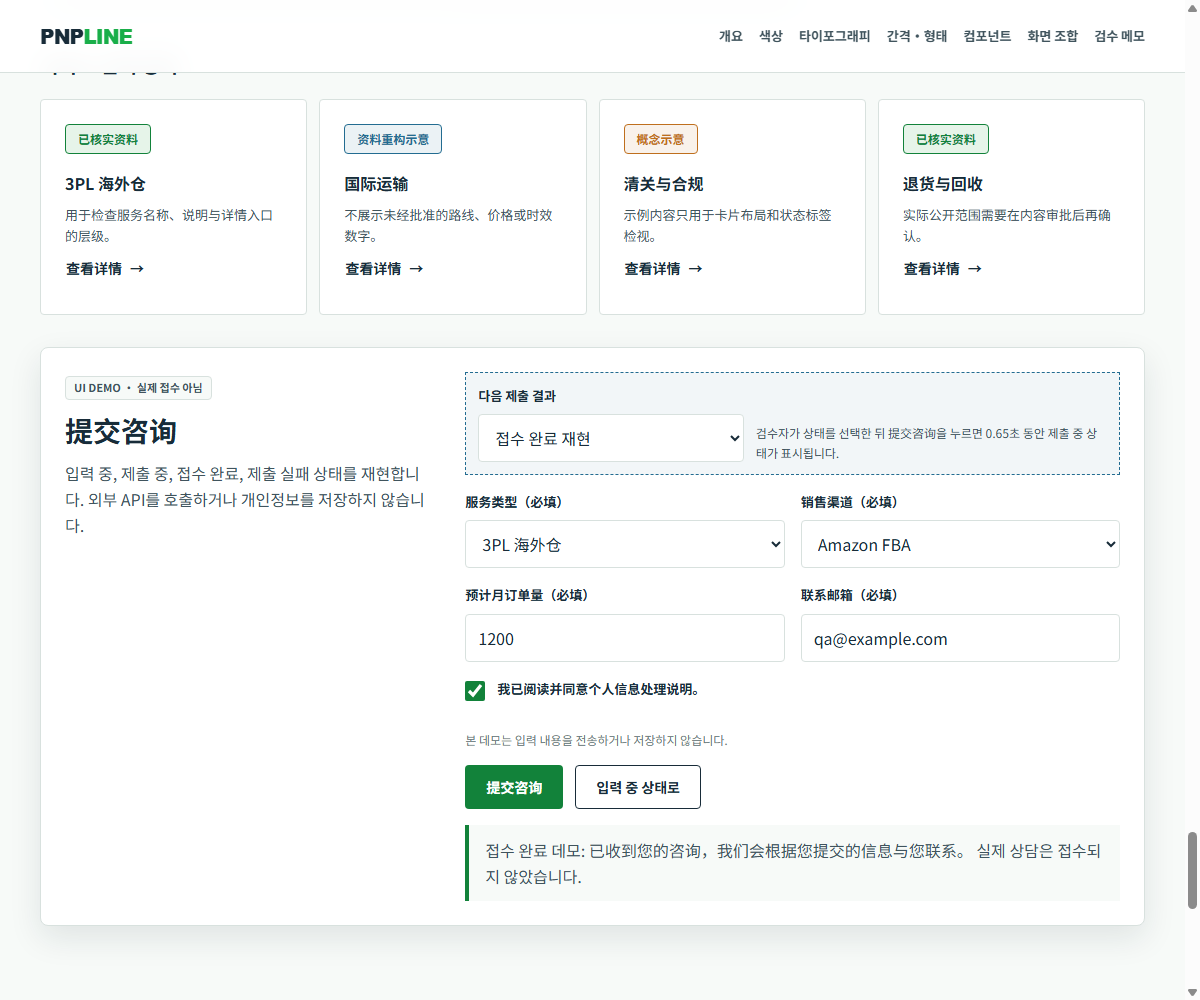
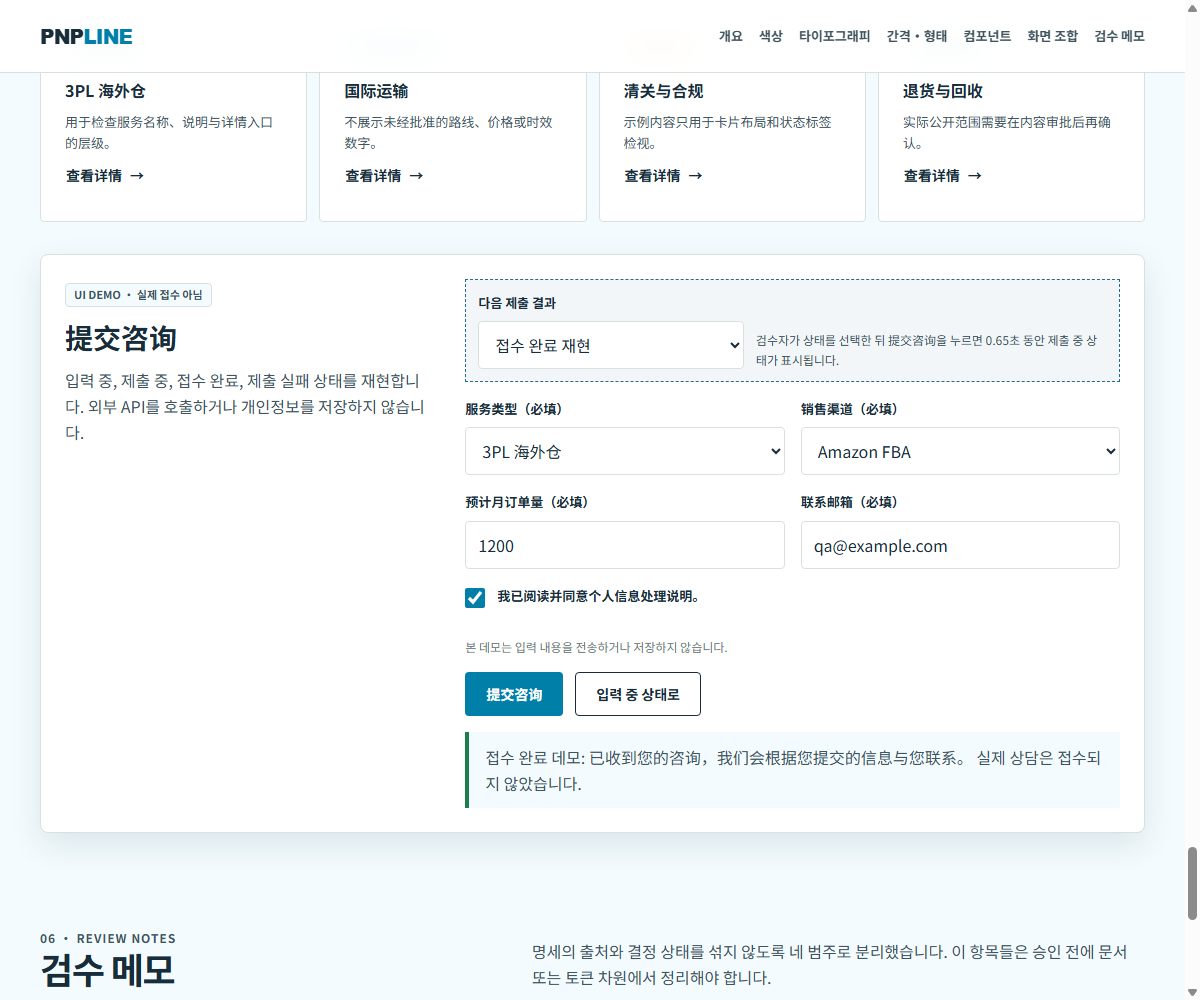
feat: align design system with PNPLINE brand blue

diff --git a/output/design-concept-v1/design-system-preview.css b/output/design-concept-v1/design-system-preview.css
@@ -1,22 +1,22 @@
 :root{color-scheme:light}*{box-sizing:border-box}html{scroll-behavior:smooth;scroll-padding-top:calc(var(--header-height) + var(--space-4))}body{margin:0;background:var(--surface-subtle);color:var(--text-primary);font:16px/1.625 var(--font-sans-sc)}button,input,select{font:inherit}button,summary,input,select,a{-webkit-tap-highlight-color:transparent}a{color:var(--action-primary);text-underline-offset:.2em}a:focus-visible,summary:focus-visible,input:focus-visible,select:focus-visible,button:focus-visible{outline:0;box-shadow:var(--shadow-focus)}
 .skip-link{position:fixed;z-index:100;top:var(--space-2);left:var(--space-2);padding:var(--space-2) var(--space-4);background:var(--surface-inverse);color:var(--text-inverse);transform:translateY(-160%)}.skip-link:focus{transform:none}
-.preview-header{position:sticky;z-index:20;top:0;min-height:var(--header-height);border-bottom:1px solid var(--border-subtle);background:color-mix(in srgb,var(--surface-page) 94%,transparent);backdrop-filter:blur(12px)}.preview-header__inner{display:flex;max-width:var(--content-max-width);min-height:var(--header-height);align-items:center;gap:var(--space-5);margin:auto;padding:var(--space-2) var(--space-10)}.wordmark{color:var(--text-primary);font:800 20px/1 var(--font-sans-latin);letter-spacing:-.04em;text-decoration:none;white-space:nowrap}.wordmark span{color:var(--color-brand-green-600)}.preview-nav{display:flex;flex-wrap:wrap;gap:var(--space-2) var(--space-4);margin-left:auto}.preview-nav a{color:var(--text-secondary);font-size:13px;font-weight:700;text-decoration:none}.preview-nav a:hover{color:var(--action-primary)}
+.preview-header{position:sticky;z-index:20;top:0;min-height:var(--header-height);border-bottom:1px solid var(--border-subtle);background:color-mix(in srgb,var(--surface-page) 94%,transparent);backdrop-filter:blur(12px)}.preview-header__inner{display:flex;max-width:var(--content-max-width);min-height:var(--header-height);align-items:center;gap:var(--space-5);margin:auto;padding:var(--space-2) var(--space-10)}.wordmark{color:var(--text-primary);font:800 20px/1 var(--font-sans-latin);letter-spacing:-.04em;text-decoration:none;white-space:nowrap}.wordmark span{color:var(--action-primary)}.preview-nav{display:flex;flex-wrap:wrap;gap:var(--space-2) var(--space-4);margin-left:auto}.preview-nav a{color:var(--text-secondary);font-size:13px;font-weight:700;text-decoration:none}.preview-nav a:hover{color:var(--action-primary)}
 main{max-width:var(--content-max-width);margin:auto;padding:var(--space-16) var(--space-10) var(--space-24)}.intro{display:grid;grid-template-columns:minmax(0,1.45fr) minmax(280px,.7fr);gap:var(--space-10);align-items:end}.eyebrow,.kicker,.sample-label{margin:0 0 var(--space-2);color:var(--action-primary);font-size:12px;font-weight:700;letter-spacing:.08em;line-height:1.5;text-transform:uppercase}h1,h2,h3,p{overflow-wrap:anywhere}.intro h1{max-width:800px;margin:0;font-size:clamp(36px,6vw,64px);line-height:1.08;letter-spacing:-.045em}.intro__lead{max-width:720px;margin:var(--space-6) 0 0;color:var(--text-secondary);font-size:18px}
 .status-card,.panel,.device,.note-card,.metric-card{border:1px solid var(--border-subtle);background:var(--surface-page);box-shadow:var(--shadow-panel)}.status-card{padding:var(--panel-padding);border-radius:var(--radius-md)}.status-card strong{display:block;margin-bottom:var(--space-2);font-size:18px}.status-card p{margin:0;color:var(--text-secondary);font-size:14px}.source-list,.plain-list{margin:var(--space-4) 0 0;padding-left:1.25em}.source-list code,code{font-family:var(--font-sans-latin);font-size:.88em}.toc{margin-top:var(--space-10);padding:var(--space-5) var(--panel-padding);border:1px solid var(--border-subtle);border-radius:var(--radius-sm);background:var(--surface-tinted)}.toc-list{display:flex;flex-wrap:wrap;gap:var(--space-2) var(--space-5);margin:var(--space-4) 0 0;padding:0;list-style:none}.toc-list a{font-size:14px;font-weight:700}
 .section{padding-top:var(--space-24)}.section-heading{display:grid;grid-template-columns:minmax(0,.75fr) minmax(280px,1fr);gap:var(--space-8);align-items:end;margin-bottom:var(--space-8)}.section-heading h2{margin:0;font-size:36px;line-height:1.2;letter-spacing:-.035em}.section-heading p{margin:0;color:var(--text-secondary)}.subsection,.component-block{margin-top:var(--space-12)}.subsection h3,.component-block>h3{margin:0 0 var(--space-4);font-size:20px;line-height:1.4}.subsection-intro{margin:calc(var(--space-4) * -1) 0 var(--space-5);color:var(--text-secondary);font-size:14px}
 .origin-tag,.demo-tag,.status-pill{display:inline-flex;min-height:24px;align-items:center;padding:2px var(--space-2);border:1px solid var(--border-subtle);border-radius:var(--radius-sm);background:var(--surface-subtle);color:var(--text-secondary);font-size:11px;font-weight:700;line-height:1.4}.origin-tag--doc{border-color:var(--color-signal-amber);color:var(--color-signal-amber)}.origin-tag--temp{border-color:var(--color-signal-blue);color:var(--color-signal-blue)}.origin-tag--source{border-color:var(--action-primary);color:var(--action-primary)}
 .token-grid{display:grid;grid-template-columns:repeat(3,minmax(0,1fr));gap:var(--space-4)}.color-card{min-width:0;overflow:hidden;border:1px solid var(--border-subtle);border-radius:var(--radius-sm);background:var(--surface-page)}.color-card__swatch{display:grid;min-height:104px;place-items:end start;padding:var(--space-3);border-bottom:1px solid var(--border-subtle);background:var(--swatch-color)}.color-card__swatch span{padding:2px var(--space-2);border-radius:var(--radius-sm);background:var(--surface-page);color:var(--text-primary);font:11px var(--font-sans-latin)}.color-card__body{padding:var(--space-4)}.color-card h4{margin:0 0 var(--space-2);font-size:14px}.token-data{display:grid;gap:var(--space-2);margin:0}.token-data div{display:grid;grid-template-columns:64px minmax(0,1fr);gap:var(--space-2)}.token-data dt,.token-data dd{margin:0;font-size:12px}.token-data dt{color:var(--text-muted)}.token-data dd{overflow-wrap:anywhere}
-.context-grid,.green-comparison,.shape-grid,.metric-grid,.note-grid{display:grid;grid-template-columns:repeat(3,minmax(0,1fr));gap:var(--space-4)}.color-context{min-height:180px;padding:var(--panel-padding);border:1px solid var(--border-subtle);border-radius:var(--radius-sm)}.color-context h4,.color-context p,.green-role h4,.green-role p{margin:0}.color-context p,.green-role p{margin-top:var(--space-2)}.color-context--page{background:var(--surface-page);color:var(--text-primary)}.color-context--tinted{background:var(--surface-tinted);color:var(--text-primary)}.color-context--inverse{border-color:var(--surface-inverse);background:var(--surface-inverse);color:var(--text-inverse)}.color-context .secondary{color:var(--text-secondary)}.color-context--inverse .secondary{color:var(--color-ink-200)}.green-comparison{grid-template-columns:repeat(2,minmax(0,1fr))}.green-role{padding:var(--panel-padding);border-radius:var(--radius-sm);color:var(--text-inverse)}.green-role p{font-size:14px}.green-role--action{background:var(--action-primary)}.green-role--brand{background:var(--color-brand-green-600)}
+.context-grid,.brand-comparison,.shape-grid,.metric-grid,.note-grid{display:grid;grid-template-columns:repeat(3,minmax(0,1fr));gap:var(--space-4)}.color-context{min-height:180px;padding:var(--panel-padding);border:1px solid var(--border-subtle);border-radius:var(--radius-sm)}.color-context h4,.color-context p,.brand-role h4,.brand-role p{margin:0}.color-context p,.brand-role p{margin-top:var(--space-2)}.color-context--page{background:var(--surface-page);color:var(--text-primary)}.color-context--tinted{background:var(--surface-tinted);color:var(--text-primary)}.color-context--inverse{border-color:var(--surface-inverse);background:var(--surface-inverse);color:var(--text-inverse)}.color-context .secondary{color:var(--text-secondary)}.color-context--inverse .secondary{color:var(--color-ink-200)}.brand-comparison{grid-template-columns:repeat(2,minmax(0,1fr))}.brand-role{padding:var(--panel-padding);border-radius:var(--radius-sm)}.brand-role p{font-size:14px}.brand-role--action{background:var(--action-primary);color:var(--text-inverse)}.brand-role--primary{background:var(--brand-primary);color:var(--text-primary)}
 .table-wrap{overflow-x:auto;border:1px solid var(--border-subtle);border-radius:var(--radius-sm);background:var(--surface-page)}.data-table{width:100%;min-width:660px;border-collapse:collapse;font-size:13px}.data-table th,.data-table td{padding:var(--space-3) var(--space-4);border-bottom:1px solid var(--border-subtle);text-align:left;vertical-align:top}.data-table tr:last-child td{border:0}.data-table th{background:var(--surface-tinted);color:var(--text-secondary);font-size:12px}
 .type-stack{display:grid;gap:var(--space-4)}.type-specimen{display:grid;grid-template-columns:180px minmax(0,1fr);gap:var(--space-6);padding:var(--panel-padding);border:1px solid var(--border-subtle);border-radius:var(--radius-sm);background:var(--surface-page)}.type-meta strong{display:block;margin-bottom:var(--space-2)}.type-sample{margin:0;font-family:var(--font-sans-sc)}.type-display{font-size:48px;line-height:56px;font-weight:700;letter-spacing:-.04em}.type-h1{font-size:36px;line-height:44px;font-weight:700;letter-spacing:-.03em}.type-h2{font-size:28px;line-height:36px;font-weight:700;letter-spacing:-.025em}.type-h3{font-size:20px;line-height:28px;font-weight:700}.type-body{font-size:16px;line-height:26px}.type-small{font-size:14px;line-height:22px}.type-label{font-size:12px;line-height:18px;font-weight:700;letter-spacing:.04em}.font-notice{margin-top:var(--space-5);padding:var(--space-4);border-left:4px solid var(--color-signal-amber);background:var(--surface-page)}.font-notice p{margin:0;color:var(--text-secondary);font-size:14px}.narrow-copy-test{max-width:360px;margin-top:var(--space-6);padding:var(--panel-padding);border:1px solid var(--border-subtle);border-radius:var(--radius-sm);background:var(--surface-page)}.narrow-copy-test h4{margin:0 0 var(--space-2);font-size:20px;line-height:28px}.narrow-copy-test p{margin:0 0 var(--space-4)}
 .button-row,.badge-list,.form-actions{display:flex;flex-wrap:wrap;gap:var(--space-3)}.space-list{display:grid;gap:var(--space-3)}.space-row{display:grid;grid-template-columns:100px minmax(120px,1fr) 180px;gap:var(--space-4);align-items:center;padding:var(--space-3) var(--space-4);border:1px solid var(--border-subtle);background:var(--surface-page)}.space-row__track{min-width:0;height:20px;background:var(--surface-tinted)}.space-row__bar{width:var(--space-value);max-width:100%;height:100%;background:var(--action-primary)}.shape-sample,.shadow-sample{min-height:132px;padding:var(--panel-padding);border:1px solid var(--border-subtle);background:var(--surface-page)}.shape-sample p,.shadow-sample p{margin:var(--space-2) 0 0;color:var(--text-secondary);font-size:13px}.radius-none{border-radius:var(--radius-none)}.radius-sm{border-radius:var(--radius-sm)}.radius-md{border-radius:var(--radius-md)}.shadow-panel{box-shadow:var(--shadow-panel)}.shadow-focus{box-shadow:var(--shadow-focus)}
 .metric-grid{grid-template-columns:repeat(5,minmax(0,1fr))}.metric-card{min-width:0;padding:var(--space-4);border-radius:var(--radius-sm);box-shadow:none}.metric-card strong,.metric-card output{display:block}.metric-card strong{margin-bottom:var(--space-2);font-size:13px}.metric-card output{color:var(--action-primary);font:700 20px var(--font-sans-latin)}.metric-card small{display:block;margin-top:var(--space-2);color:var(--text-muted);overflow-wrap:anywhere}.viewport-readout{display:flex;flex-wrap:wrap;gap:var(--space-3);align-items:center;margin-bottom:var(--space-4);padding:var(--space-3) var(--space-4);border:1px solid var(--border-subtle);background:var(--surface-tinted)}.viewport-readout output{font-family:var(--font-sans-latin);font-weight:700}
 .state-table{display:grid;grid-template-columns:repeat(4,minmax(0,1fr));gap:var(--space-4)}.state-cell{min-width:0;padding:var(--space-4);border:1px solid var(--border-subtle);background:var(--surface-page)}.state-cell__label{display:block;margin-bottom:var(--space-3);color:var(--text-muted);font-size:12px;font-weight:700}.button{display:inline-flex;min-width:0;min-height:var(--button-height-md);align-items:center;justify-content:center;gap:var(--space-2);padding:0 var(--button-padding-inline);border:1px solid transparent;border-radius:var(--radius-sm);cursor:pointer;font-size:14px;font-weight:700;line-height:1.2;text-decoration:none;transition:background-color 160ms ease,color 160ms ease,border-color 160ms ease,box-shadow 160ms ease}.button--primary{background:var(--action-primary);color:var(--text-inverse)}.button--primary:is(:hover,[data-state=hover],:focus-visible,[data-state=focus]){background:var(--action-primary-hover);color:var(--text-inverse)}.button--secondary{border-color:var(--action-secondary);background:transparent;color:var(--action-secondary)}.button--secondary:is(:hover,[data-state=hover],:focus-visible,[data-state=focus]){background:var(--surface-tinted)}.button--text{min-height:var(--button-height-md);padding-inline:0;background:transparent;color:var(--text-primary)}.button--text:after{content:"→"}.button--text:is(:hover,[data-state=hover],:focus-visible,[data-state=focus]){color:var(--action-primary)}.button:is(:focus-visible,[data-state=focus]){box-shadow:var(--shadow-focus)}.button:is(:disabled,[aria-disabled=true],[data-state=disabled]){border-color:var(--border-subtle);background:var(--color-ink-100);color:var(--text-muted);cursor:not-allowed}
 .form-specimens{display:grid;grid-template-columns:repeat(2,minmax(0,1fr));gap:var(--space-4)}.field{min-width:0}.field label{display:block;margin-bottom:var(--space-2);color:var(--text-primary);font-size:13px;font-weight:700}.field input:not([type=checkbox]),.field select{width:100%;min-height:var(--input-height);padding:0 var(--space-3);border:1px solid var(--border-subtle);border-radius:var(--radius-sm);background:var(--surface-page);color:var(--text-primary)}.field input:not([type=checkbox]):is(:focus,[data-state=focus]),.field select:is(:focus,[data-state=focus]){border-color:var(--focus-ring);outline:0;box-shadow:var(--shadow-focus)}.field input[aria-invalid=true],.field select[aria-invalid=true]{border-color:var(--color-signal-red)}.field input:disabled,.field select:disabled{background:var(--color-ink-100);color:var(--text-muted);cursor:not-allowed}.field-help,.field-error{margin:var(--space-2) 0 0;font-size:12px}.field-help{color:var(--text-muted)}.field-error{color:var(--color-signal-red);font-weight:700}.checkbox-row{display:flex!important;min-height:var(--button-height-md);align-items:flex-start;gap:var(--space-3)}.checkbox-row input{width:20px;height:20px;flex:none;margin:3px 0 0;accent-color:var(--action-primary)}
-.evidence-badge{display:inline-flex;min-height:30px;align-items:center;padding:var(--space-1) var(--space-3);border:1px solid currentColor;border-radius:var(--radius-sm);font-size:12px;font-weight:700}.evidence-badge--verified{color:var(--action-primary);background:var(--color-brand-green-100)}.evidence-badge--reconstructed{color:var(--color-signal-blue);background:color-mix(in srgb,var(--color-signal-blue) 9%,var(--surface-page))}.evidence-badge--concept{color:var(--color-signal-amber);background:color-mix(in srgb,var(--color-signal-amber) 9%,var(--surface-page))}.evidence-badge--private{color:var(--text-secondary);background:var(--color-ink-100)}.faq-list{display:grid;gap:var(--space-3)}.faq-list details{border:1px solid var(--border-subtle);border-radius:var(--radius-sm);background:var(--surface-page)}.faq-list summary{min-height:var(--button-height-md);padding:var(--space-3) var(--space-4);cursor:pointer;font-weight:700}.faq-list details p{margin:0;padding:0 var(--space-4) var(--space-4);color:var(--text-secondary)}
+.evidence-badge{display:inline-flex;min-height:30px;align-items:center;padding:var(--space-1) var(--space-3);border:1px solid currentColor;border-radius:var(--radius-sm);font-size:12px;font-weight:700}.evidence-badge--verified{color:var(--status-success);background:var(--status-success-surface)}.evidence-badge--reconstructed{color:var(--color-signal-blue);background:color-mix(in srgb,var(--color-signal-blue) 9%,var(--surface-page))}.evidence-badge--concept{color:var(--color-signal-amber);background:color-mix(in srgb,var(--color-signal-amber) 9%,var(--surface-page))}.evidence-badge--private{color:var(--text-secondary);background:var(--color-ink-100)}.faq-list{display:grid;gap:var(--space-3)}.faq-list details{border:1px solid var(--border-subtle);border-radius:var(--radius-sm);background:var(--surface-page)}.faq-list summary{min-height:var(--button-height-md);padding:var(--space-3) var(--space-4);cursor:pointer;font-weight:700}.faq-list details p{margin:0;padding:0 var(--space-4) var(--space-4);color:var(--text-secondary)}
 .composition-grid{display:grid;grid-template-columns:minmax(0,1.55fr) minmax(280px,.65fr);gap:var(--space-5);align-items:start}.device{overflow:hidden;border-radius:var(--radius-md)}.device__label{display:flex;align-items:center;justify-content:space-between;padding:var(--space-2) var(--space-4);border-bottom:1px solid var(--border-subtle);background:var(--surface-tinted);color:var(--text-secondary);font-size:12px;font-weight:700}.service-header{display:flex;min-height:var(--header-height);align-items:center;gap:var(--space-5);padding:0 var(--panel-padding);border-bottom:1px solid var(--border-subtle);background:var(--surface-page)}.service-header nav{display:flex;gap:var(--space-4);margin-left:auto}.service-header nav a{color:var(--text-secondary);font-size:12px;text-decoration:none}.hero-demo{display:grid;grid-template-columns:minmax(0,1.1fr) minmax(220px,.9fr);min-height:430px;background:var(--surface-page)}.hero-demo__copy{display:flex;flex-direction:column;justify-content:center;padding:var(--space-12) var(--panel-padding)}.hero-demo h3{margin:0;font-size:clamp(34px,4vw,52px);line-height:1.1;letter-spacing:-.04em}.hero-demo p{max-width:560px;margin:var(--space-5) 0;color:var(--text-secondary)}.hero-demo__visual{display:grid;place-items:center;padding:var(--panel-padding);background:var(--surface-tinted)}.flow-diagram{display:grid;width:100%;gap:var(--space-4)}.flow-node{padding:var(--space-4);border-left:4px solid var(--action-primary);background:var(--surface-page);box-shadow:var(--shadow-panel)}.flow-node strong,.flow-node span{display:block}.flow-node span{margin-top:var(--space-1);color:var(--text-secondary);font-size:12px}.mobile-frame{max-width:390px;margin:auto}.mobile-frame .service-header{padding:0 var(--space-4)}.mobile-frame .service-header nav{display:none}.menu-button{display:inline-flex;width:var(--button-height-md);min-height:var(--button-height-md);align-items:center;justify-content:center;margin-left:auto;border:1px solid var(--border-subtle);border-radius:var(--radius-sm);background:var(--surface-page);color:var(--text-primary)}.mobile-frame .hero-demo{display:block;min-height:0}.mobile-frame .hero-demo__copy{padding:var(--space-8) var(--space-4)}.mobile-frame .hero-demo h3{font-size:36px;line-height:44px}.mobile-frame .hero-demo__visual{padding:var(--space-6) var(--space-4)}
-.service-selector{display:grid;grid-template-columns:repeat(4,minmax(0,1fr));gap:var(--space-3);margin-top:var(--space-5)}.service-card{padding:var(--panel-padding);border:1px solid var(--border-subtle);border-radius:var(--radius-sm);background:var(--surface-page)}.service-card h4,.service-card p{margin:0}.service-card h4{margin-top:var(--space-4)}.service-card p{margin-top:var(--space-2);color:var(--text-secondary);font-size:13px}.quote-demo{display:grid;grid-template-columns:minmax(220px,.72fr) minmax(0,1.28fr);gap:var(--space-8);margin-top:var(--space-8);padding:var(--panel-padding);border:1px solid var(--border-subtle);border-radius:var(--radius-md);background:var(--surface-page);box-shadow:var(--shadow-panel)}.quote-demo__intro h3{margin:var(--space-3) 0 0;font-size:28px;line-height:36px}.quote-demo__intro p{margin:var(--space-3) 0 0;color:var(--text-secondary)}.demo-form{display:grid;grid-template-columns:repeat(2,minmax(0,1fr));gap:var(--space-4)}.demo-form .field--wide,.demo-form .form-actions,.demo-form .demo-status,.demo-form .demo-controls{grid-column:1/-1}.demo-controls{display:flex;flex-wrap:wrap;gap:var(--space-3);align-items:end;padding:var(--space-3);border:1px dashed var(--color-signal-blue);background:color-mix(in srgb,var(--color-signal-blue) 6%,var(--surface-page))}.demo-controls .field{flex:1 1 220px}.demo-controls p{flex:2 1 260px;margin:0;color:var(--text-secondary);font-size:12px}.form-actions{align-items:center}.demo-status{min-height:48px;padding:var(--space-3) var(--space-4);border-left:4px solid var(--color-signal-blue);background:var(--surface-subtle);color:var(--text-secondary)}.demo-status[data-status=loading]{border-left-color:var(--color-signal-amber)}.demo-status[data-status=success]{border-left-color:var(--action-primary)}.demo-status[data-status=error]{border-left-color:var(--color-signal-red)}
+.service-selector{display:grid;grid-template-columns:repeat(4,minmax(0,1fr));gap:var(--space-3);margin-top:var(--space-5)}.service-card{padding:var(--panel-padding);border:1px solid var(--border-subtle);border-radius:var(--radius-sm);background:var(--surface-page)}.service-card h4,.service-card p{margin:0}.service-card h4{margin-top:var(--space-4)}.service-card p{margin-top:var(--space-2);color:var(--text-secondary);font-size:13px}.quote-demo{display:grid;grid-template-columns:minmax(220px,.72fr) minmax(0,1.28fr);gap:var(--space-8);margin-top:var(--space-8);padding:var(--panel-padding);border:1px solid var(--border-subtle);border-radius:var(--radius-md);background:var(--surface-page);box-shadow:var(--shadow-panel)}.quote-demo__intro h3{margin:var(--space-3) 0 0;font-size:28px;line-height:36px}.quote-demo__intro p{margin:var(--space-3) 0 0;color:var(--text-secondary)}.demo-form{display:grid;grid-template-columns:repeat(2,minmax(0,1fr));gap:var(--space-4)}.demo-form .field--wide,.demo-form .form-actions,.demo-form .demo-status,.demo-form .demo-controls{grid-column:1/-1}.demo-controls{display:flex;flex-wrap:wrap;gap:var(--space-3);align-items:end;padding:var(--space-3);border:1px dashed var(--color-signal-blue);background:color-mix(in srgb,var(--color-signal-blue) 6%,var(--surface-page))}.demo-controls .field{flex:1 1 220px}.demo-controls p{flex:2 1 260px;margin:0;color:var(--text-secondary);font-size:12px}.form-actions{align-items:center}.demo-status{min-height:48px;padding:var(--space-3) var(--space-4);border-left:4px solid var(--color-signal-blue);background:var(--surface-subtle);color:var(--text-secondary)}.demo-status[data-status=loading]{border-left-color:var(--color-signal-amber)}.demo-status[data-status=success]{border-left-color:var(--status-success)}.demo-status[data-status=error]{border-left-color:var(--color-signal-red)}
 .note-grid{grid-template-columns:repeat(2,minmax(0,1fr))}.note-card{padding:var(--panel-padding);border-radius:var(--radius-sm);box-shadow:none}.note-card h3{margin:0;font-size:18px}.note-card ul{margin:var(--space-3) 0 0;padding-left:1.2em;color:var(--text-secondary)}.note-card li+li{margin-top:var(--space-2)}.footer-note{margin-top:var(--space-16);padding-top:var(--space-6);border-top:1px solid var(--border-subtle);color:var(--text-secondary);font-size:13px}.js-error{display:none;margin:var(--space-4) 0 0;padding:var(--space-3) var(--space-4);border-left:4px solid var(--color-signal-red);background:color-mix(in srgb,var(--color-signal-red) 8%,var(--surface-page))}.js-error.is-visible{display:block}
 @media(max-width:1000px){.token-grid,.metric-grid{grid-template-columns:repeat(2,minmax(0,1fr))}.state-table,.service-selector{grid-template-columns:repeat(2,minmax(0,1fr))}.composition-grid{grid-template-columns:1fr}}
-@media(max-width:767px){html{scroll-padding-top:var(--space-4)}.preview-header{position:static}.preview-header__inner{align-items:flex-start;flex-direction:column;gap:var(--space-2);padding:var(--space-3) var(--space-4)}.preview-nav{margin-left:0}main{padding:var(--space-10) var(--space-4) var(--space-16)}.intro,.section-heading,.type-specimen,.quote-demo{grid-template-columns:1fr}.intro{gap:var(--space-6)}.intro h1{font-size:42px}.section{padding-top:var(--space-16)}.section-heading{gap:var(--space-3);margin-bottom:var(--space-6)}.section-heading h2{font-size:28px}.token-grid,.context-grid,.green-comparison,.shape-grid,.metric-grid,.note-grid,.state-table,.form-specimens,.service-selector,.demo-form{grid-template-columns:1fr}.space-row{grid-template-columns:86px minmax(80px,1fr)}.space-row__value{grid-column:1/-1}.type-display{font-size:42px;line-height:50px}.hero-demo{grid-template-columns:1fr}.service-header nav,.service-header>.button{display:none}.quote-demo{gap:var(--space-5)}.demo-form .field,.demo-form .form-actions,.demo-form .demo-status,.demo-form .demo-controls{grid-column:1}}
+@media(max-width:767px){html{scroll-padding-top:var(--space-4)}.preview-header{position:static}.preview-header__inner{align-items:flex-start;flex-direction:column;gap:var(--space-2);padding:var(--space-3) var(--space-4)}.preview-nav{margin-left:0}main{padding:var(--space-10) var(--space-4) var(--space-16)}.intro,.section-heading,.type-specimen,.quote-demo{grid-template-columns:1fr}.intro{gap:var(--space-6)}.intro h1{font-size:42px}.section{padding-top:var(--space-16)}.section-heading{gap:var(--space-3);margin-bottom:var(--space-6)}.section-heading h2{font-size:28px}.token-grid,.context-grid,.brand-comparison,.shape-grid,.metric-grid,.note-grid,.state-table,.form-specimens,.service-selector,.demo-form{grid-template-columns:1fr}.space-row{grid-template-columns:86px minmax(80px,1fr)}.space-row__value{grid-column:1/-1}.type-display{font-size:42px;line-height:50px}.hero-demo{grid-template-columns:1fr}.service-header nav,.service-header>.button{display:none}.quote-demo{gap:var(--space-5)}.demo-form .field,.demo-form .form-actions,.demo-form .demo-status,.demo-form .demo-controls{grid-column:1}}
 @media(prefers-reduced-motion:reduce){html{scroll-behavior:auto}*,*:before,*:after{animation-duration:.01ms!important;animation-iteration-count:1!important;scroll-behavior:auto!important;transition-duration:.01ms!important}}

diff --git a/output/design-concept-v1/design-system-preview.js b/output/design-concept-v1/design-system-preview.js
@@ -1,6 +1,6 @@
 (()=>{"use strict";
 const root=document.documentElement,computedRoot=()=>getComputedStyle(root);
-const colorTokens={primitive:[["--color-ink-950","가장 짙은 잉크 / Primary hover"],["--color-ink-900","본문 잉크 / inverse surface"],["--color-ink-700","보조 본문"],["--color-ink-500","약한 본문"],["--color-ink-200","옅은 테두리"],["--color-ink-100","비활성 배경 후보"],["--color-white","흰색 표면·역상 텍스트"],["--color-brand-green-700","행동용 짙은 녹색"],["--color-brand-green-600","브랜드 강조·포커스"],["--color-brand-green-100","옅은 녹색 배경"],["--color-sage-100","tinted surface"],["--color-sage-50","subtle surface"],["--color-signal-amber","경고 신호"],["--color-signal-red","오류 신호"],["--color-signal-blue","정보 신호"]],semantic:[["--surface-page","기본 페이지 표면"],["--surface-subtle","낮은 강조 표면"],["--surface-tinted","세이지 강조 표면"],["--surface-inverse","역상 표면"],["--text-primary","주요 본문"],["--text-secondary","보조 본문"],["--text-muted","약한 본문"],["--text-inverse","역상 본문"],["--border-subtle","옅은 테두리"],["--action-primary","주요 행동"],["--action-primary-hover","주요 행동 hover"],["--action-secondary","보조 행동"],["--focus-ring","포커스 강조"]]};
+const colorTokens={primitive:[["--color-ink-950","가장 짙은 잉크 / Primary hover"],["--color-ink-900","본문 잉크 / inverse surface"],["--color-ink-700","보조 본문"],["--color-ink-500","약한 본문"],["--color-ink-200","옅은 테두리"],["--color-ink-100","비활성 배경 후보"],["--color-white","흰색 표면·역상 텍스트"],["--color-brand-blue-700","접근성용 행동·포커스 블루"],["--color-brand-blue-600","공식 브랜드 원색"],["--color-brand-blue-100","밝은 브랜드 배경"],["--color-brand-blue-50","subtle 브랜드 배경"],["--color-signal-green","성공·검증 신호"],["--color-signal-green-100","성공·검증 배경"],["--color-signal-amber","경고 신호"],["--color-signal-red","오류 신호"],["--color-signal-blue","정보 신호"]],semantic:[["--surface-page","기본 페이지 표면"],["--surface-subtle","낮은 브랜드 강조 표면"],["--surface-tinted","브랜드 tinted 표면"],["--surface-inverse","역상 표면"],["--text-primary","주요 본문"],["--text-secondary","보조 본문"],["--text-muted","약한 본문"],["--text-inverse","역상 본문"],["--border-subtle","옅은 테두리"],["--brand-primary","공식 브랜드 원색"],["--action-primary","접근성용 주요 행동"],["--action-primary-hover","주요 행동 hover"],["--action-secondary","보조 행동"],["--focus-ring","키보드 포커스"],["--status-success","성공·검증 상태"],["--status-success-surface","성공·검증 배경"]]};
 const spaceTokens=["--space-1","--space-2","--space-3","--space-4","--space-5","--space-6","--space-8","--space-10","--space-12","--space-16","--space-20","--space-24"];
 const componentTokens=[["--header-height","헤더 높이"],["--content-max-width","콘텐츠 최대 폭"],["--button-height-md","버튼 높이"],["--input-height","입력 높이"],["--panel-padding","패널 안쪽 여백"]];
 const declarations=new Map(),mediaDeclarations=new Map();
@@ -12,7 +12,7 @@ function updateMetrics(){document.getElementById("viewport-width").textContent=`
 function parseColor(value){const probe=document.createElement("span");probe.style.cssText=`color:${value};position:fixed;opacity:0`;document.body.appendChild(probe);const match=getComputedStyle(probe).color.match(/[\d.]+/g);probe.remove();if(!match)throw new Error(`색상 계산 실패: ${value}`);return match.slice(0,3).map(Number)}
 function luminance(rgb){const channels=rgb.map(c=>{const n=c/255;return n<=.04045?n/12.92:((n+.055)/1.055)**2.4});return .2126*channels[0]+.7152*channels[1]+.0722*channels[2]}
 function contrastRatio(fg,bg){const a=luminance(parseColor(fg)),b=luminance(parseColor(bg));return(Math.max(a,b)+.05)/(Math.min(a,b)+.05)}
-function renderContrast(){const pairs=[["기본 본문","--text-primary","--surface-page","일반 텍스트"],["보조 본문","--text-secondary","--surface-page","일반 텍스트"],["tinted 본문","--text-primary","--surface-tinted","일반 텍스트"],["Primary 버튼","--text-inverse","--action-primary","일반 텍스트"],["Primary hover","--text-inverse","--action-primary-hover","일반 텍스트"],["inverse 본문","--text-inverse","--surface-inverse","일반 텍스트"],["브랜드 녹색 위 흰색","--text-inverse","--color-brand-green-600","비교 견본"]];document.getElementById("contrast-results").innerHTML=pairs.map(([label,fg,bg,usage])=>{const foreground=tokenValue(fg),background=tokenValue(bg),ratio=contrastRatio(foreground,background),result=ratio>=4.5?"AA 일반 텍스트 기준 충족":ratio>=3?"대형 텍스트만 AA 가능":"AA 기준 미달";return `<tr><td>${label}</td><td><code>${fg}</code><br>${foreground}</td><td><code>${bg}</code><br>${background}</td><td>${ratio.toFixed(2)}:1</td><td>${result}<br><small>${usage}</small></td></tr>`}).join("")}
+function renderContrast(){const pairs=[["기본 본문","--text-primary","--surface-page","일반 텍스트"],["보조 본문","--text-secondary","--surface-page","일반 텍스트"],["tinted 본문","--text-primary","--surface-tinted","일반 텍스트"],["Primary 버튼","--text-inverse","--action-primary","일반 텍스트"],["Primary hover","--text-inverse","--action-primary-hover","일반 텍스트"],["inverse 본문","--text-inverse","--surface-inverse","일반 텍스트"],["브랜드 원색 위 잉크","--text-primary","--brand-primary","실사용 견본"],["브랜드 원색 위 흰색","--text-inverse","--brand-primary","사용 금지 후보"],["포커스 링 / 흰색","--focus-ring","--surface-page","비텍스트 경계"]];document.getElementById("contrast-results").innerHTML=pairs.map(([label,fg,bg,usage])=>{const foreground=tokenValue(fg),background=tokenValue(bg),ratio=contrastRatio(foreground,background),result=ratio>=4.5?"AA 일반 텍스트 기준 충족":ratio>=3?"대형 텍스트·비텍스트 경계 기준 충족":"AA 기준 미달";return `<tr><td>${label}</td><td><code>${fg}</code><br>${foreground}</td><td><code>${bg}</code><br>${background}</td><td>${ratio.toFixed(2)}:1</td><td>${result}<br><small>${usage}</small></td></tr>`}).join("")}
 function setupDemoForm(){const form=document.getElementById("quote-demo-form"),status=document.getElementById("quote-demo-status"),submit=document.getElementById("quote-submit"),reset=document.getElementById("quote-reset-state");let timer;const setStatus=(name,text)=>{status.dataset.status=name;status.textContent=text};form.addEventListener("submit",event=>{event.preventDefault();if(!form.reportValidity())return;clearTimeout(timer);submit.disabled=true;submit.setAttribute("aria-busy","true");setStatus("loading","제출 중 데모: 네트워크 요청 없이 처리 상태만 재현하고 있습니다.");timer=setTimeout(()=>{const outcome=document.getElementById("demo-outcome").value;submit.disabled=false;submit.removeAttribute("aria-busy");outcome==="success"?setStatus("success","접수 완료 데모: 已收到您的咨询，我们会根据您提交的信息与您联系。 실제 상담은 접수되지 않았습니다."):setStatus("error","제출 실패 데모: 입력값을 유지했습니다. 결과 설정을 바꾼 뒤 다시 시도할 수 있습니다.")},650)});reset.addEventListener("click",()=>{clearTimeout(timer);submit.disabled=false;submit.removeAttribute("aria-busy");setStatus("editing","입력 중 데모: 이 폼은 외부 API를 호출하거나 개인정보를 저장하지 않습니다.")})}
 function init(){const main=document.getElementById("main"),footer=main.querySelector(".footer-note");["colors","typography","spacing-shape","components","compositions","review-notes"].forEach(id=>main.insertBefore(document.getElementById(id),footer));try{readTokenStylesheet();renderColorCards("primitive-colors",colorTokens.primitive);renderColorCards("semantic-colors",colorTokens.semantic);renderSpacing();updateMetrics();renderContrast();addEventListener("resize",updateMetrics,{passive:true})}catch(error){const notice=document.getElementById("token-read-error");notice.textContent=`토큰 메타데이터를 표시하지 못했습니다: ${error.message} 로컬 HTTP 서버로 열었는지 확인하세요.`;notice.classList.add("is-visible");console.error(error)}setupDemoForm()}
 document.readyState==="loading"?document.addEventListener("DOMContentLoaded",init,{once:true}):init();

diff --git a/output/design-concept-v1/design-system-preview.html b/output/design-concept-v1/design-system-preview.html
@@ -17,7 +17,7 @@
 <div class="subsection"><h3>Primitive <span class="origin-tag origin-tag--source">CSS 원본</span></h3><div class="token-grid" id="primitive-colors"></div></div>
 <div class="subsection"><h3>Semantic <span class="origin-tag origin-tag--source">CSS 원본</span></h3><div class="token-grid" id="semantic-colors"></div></div>
 <div class="subsection"><h3>텍스트와 표면 조합</h3><div class="context-grid"><article class="color-context color-context--page"><h4>White / Page</h4><p lang="zh-CN">从韩国到美国，一站式跨境物流服务。</p><p class="secondary" lang="zh-CN">适用于 Amazon FBA、独立站与多渠道履约。</p></article><article class="color-context color-context--tinted"><h4>Tinted / Sage</h4><p lang="zh-CN">让库存、清关与订单履约更清晰。</p><p class="secondary" lang="zh-CN">示例内容仅用于检查中文排版与对比度。</p></article><article class="color-context color-context--inverse"><h4>Inverse / Ink</h4><p lang="zh-CN">连接韩国、中国与美国的运营流程。</p><p class="secondary" lang="zh-CN">不包含未经确认的时效、价格或仓库数据。</p></article></div></div>
-<div class="subsection"><h3>두 녹색의 역할 구분</h3><div class="green-comparison"><article class="green-role green-role--action"><h4><code>--action-primary</code></h4><p>주요 CTA의 기본 배경입니다. 현재 <code>--color-brand-green-700</code>을 참조합니다.</p></article><article class="green-role green-role--brand"><h4><code>--color-brand-green-600</code></h4><p>브랜드 강조와 <code>--focus-ring</code>의 원시 색상입니다. Primary CTA 기본색과 같지 않습니다.</p></article></div></div>
+<div class="subsection"><h3>브랜드 원색과 행동색의 역할 구분</h3><div class="brand-comparison"><article class="brand-role brand-role--action"><h4><code>--action-primary</code></h4><p>흰색 텍스트 CTA에 사용하는 접근성용 브랜드 블루입니다. 현재 <code>--color-brand-blue-700</code>(#007FA8)을 참조합니다.</p></article><article class="brand-role brand-role--primary"><h4><code>--brand-primary</code></h4><p>공식 브랜드 원색 <code>#00ABE1</code>입니다. 잉크색 텍스트나 비텍스트 강조에 사용하며 흰색 글자 배경으로는 사용하지 않습니다.</p></article></div></div>
 <div class="subsection"><h3>실사용 조합 대비 측정</h3><p class="subsection-intro">브라우저가 계산한 현재 토큰 색상으로 WCAG 명도 대비를 계산합니다. 결과는 검수 데이터이며 디자인 승인 표시는 아닙니다.</p><div class="table-wrap"><table class="data-table"><thead><tr><th>조합</th><th>텍스트</th><th>배경</th><th>대비</th><th>판정 기준</th></tr></thead><tbody id="contrast-results"></tbody></table></div></div>
 </section>
 <section class="section" id="compositions" aria-labelledby="compositions-title">
@@ -32,10 +32,10 @@
 </section>
 
 <section class="section" id="review-notes" aria-labelledby="notes-title"><div class="section-heading"><div><p class="kicker">06 · Review Notes</p><h2 id="notes-title">검수 메모</h2></div><p>명세의 출처와 결정 상태를 섞지 않도록 네 범주로 분리했습니다. 이 항목들은 승인 전에 문서 또는 토큰 차원에서 정리해야 합니다.</p></div><div class="note-grid">
-<article class="note-card"><h3>문서와 토큰의 불일치</h3><ul><li>현재 확인된 색상값과 컴포넌트 높이의 직접적인 수치 충돌은 없습니다.</li><li>문서는 Primary의 Hover/Focus를 모두 잉크 배경으로 설명하지만 CSS는 <code>--action-primary-hover</code>만 제공하고 Focus 전용 배경 토큰은 없습니다. 프리뷰는 문서 설명과 hover 토큰을 함께 적용했습니다.</li><li>문서의 데스크톱 좌우 최소 여백은 40px이고 모바일은 16px입니다. 토큰 파일에는 전용 레이아웃 여백 토큰이 없습니다.</li></ul></article>
+<article class="note-card"><h3>문서와 토큰의 불일치</h3><ul><li>브랜드 원색은 문서와 CSS 모두 <code>#00ABE1</code>로 일치합니다.</li><li>문서는 Primary의 Hover/Focus를 모두 잉크 배경으로 설명하지만 CSS는 hover 배경과 focus ring을 별도 역할로 제공합니다. 프리뷰는 hover에는 잉크 배경, focus-visible에는 접근성용 블루 링을 적용했습니다.</li><li>문서의 데스크톱 좌우 최소 여백은 40px이고 모바일은 16px입니다. 토큰 파일에는 전용 레이아웃 여백 토큰이 없습니다.</li></ul></article>
 <article class="note-card"><h3>문서에만 정의된 항목</h3><ul><li>Display, H1, H2, H3, Body, Small, Label의 크기·행간·굵기 전체가 문서에만 있습니다.</li><li>버튼 상태 설명, Evidence Badge 의미, FAQ 동작, 견적 폼 상태 흐름이 문서에만 있습니다.</li><li>최소 터치 높이 44px은 문서와 버튼 토큰에 있으나 체크박스 자체 크기는 정의되지 않았습니다.</li></ul></article>
 <article class="note-card"><h3>프리뷰에서 임시 해석한 항목</h3><ul><li>버튼과 폼 컨트롤의 4px 반경, disabled·error 상태 색상, 체크박스 20px 크기를 기존 팔레트에서 최소한으로 조합했습니다.</li><li>Evidence Badge의 색상 매핑과 정보·성공·실패 안내 패널은 기존 신호색을 사용한 프리뷰 전용 해석입니다.</li><li>정적 Hero의 업무 흐름 도식과 서비스 카드 그리드는 이미지 없이 레이아웃만 검수하기 위한 임시 구조입니다.</li></ul></article>
-<article class="note-card"><h3>승인 전에 결정해야 할 항목</h3><ul><li>타이포그래피를 CSS 토큰으로 승격할지와 실제 웹폰트 제공·로딩 정책을 결정해야 합니다.</li><li>버튼·입력·배지의 component token, active 상태, 오류·disabled 색상과 반경을 확정해야 합니다.</li><li>focus ring이 어두운 배경에서도 충분한지, 고대비 대체 테두리가 필요한지 검수해야 합니다.</li><li>실제 서비스별 Evidence Badge 상태와 공개 가능한 콘텐츠를 자료 검증 후 결정해야 합니다.</li></ul></article>
+<article class="note-card"><h3>승인 전에 결정해야 할 항목</h3><ul><li>타이포그래피를 CSS 토큰으로 승격할지와 실제 웹폰트 제공·로딩 정책을 결정해야 합니다.</li><li>공식 브랜드 원색 <code>#00ABE1</code>과 접근성용 행동색 <code>#007FA8</code>의 사용 범위를 브랜드 가이드에 확정해야 합니다.</li><li>버튼·입력·배지의 component token, active 상태, 오류·disabled 색상과 반경을 확정해야 합니다.</li><li>실제 서비스별 Evidence Badge 상태와 공개 가능한 콘텐츠를 자료 검증 후 결정해야 합니다.</li></ul></article>
 </div></section>
 <p class="footer-note">PNPLINE Design System V1 시각 검수 페이지 · 외부 네트워크 요청 없이 실행 가능 · 프리뷰 구현 완료는 디자인 승인 완료가 아닙니다.</p>
 <section class="section" id="spacing-shape" aria-labelledby="spacing-title">

diff --git a/output/design-concept-v1/design-tokens.css b/output/design-concept-v1/design-tokens.css
@@ -7,11 +7,12 @@
   --color-ink-200: #d8e1de;
   --color-ink-100: #e8efec;
   --color-white: #ffffff;
-  --color-brand-green-700: #12823a;
-  --color-brand-green-600: #19ae49;
-  --color-brand-green-100: #e6f4e9;
-  --color-sage-100: #eff5f1;
-  --color-sage-50: #f7faf8;
+  --color-brand-blue-700: #007fa8;
+  --color-brand-blue-600: #00abe1;
+  --color-brand-blue-100: #dff6fd;
+  --color-brand-blue-50: #f3fbfe;
+  --color-signal-green: #1a7f4b;
+  --color-signal-green-100: #e7f4ec;
   --color-signal-amber: #bf6f1d;
   --color-signal-red: #b83a36;
   --color-signal-blue: #236c91;
@@ -36,22 +37,25 @@
   --radius-sm: 4px;
   --radius-md: 8px;
   --shadow-panel: 0 12px 32px rgb(18 35 45 / 10%);
-  --shadow-focus: 0 0 0 3px rgb(25 174 73 / 28%);
+  --shadow-focus: 0 0 0 3px var(--color-brand-blue-700);
 
   /* Semantic tokens */
   --surface-page: var(--color-white);
-  --surface-subtle: var(--color-sage-50);
-  --surface-tinted: var(--color-sage-100);
+  --surface-subtle: var(--color-brand-blue-50);
+  --surface-tinted: var(--color-brand-blue-100);
   --surface-inverse: var(--color-ink-900);
   --text-primary: var(--color-ink-900);
   --text-secondary: var(--color-ink-700);
   --text-muted: var(--color-ink-500);
   --text-inverse: var(--color-white);
   --border-subtle: var(--color-ink-200);
-  --action-primary: var(--color-brand-green-700);
+  --brand-primary: var(--color-brand-blue-600);
+  --action-primary: var(--color-brand-blue-700);
   --action-primary-hover: var(--color-ink-950);
   --action-secondary: var(--color-ink-900);
-  --focus-ring: var(--color-brand-green-600);
+  --focus-ring: var(--color-brand-blue-700);
+  --status-success: var(--color-signal-green);
+  --status-success-surface: var(--color-signal-green-100);
 
   /* Component tokens */
   --header-height: 72px;

diff --git a/output/design-concept-v1/README.md b/output/design-concept-v1/README.md
@@ -42,6 +42,7 @@ python -m http.server 8000
 - 데스크톱 40px·모바일 16px 좌우 여백은 문서에만 있고 전용 CSS 토큰이 없습니다.
 - CSS의 글꼴 이름은 실제 폰트 파일 로딩을 보장하지 않습니다. 외부 CDN을 추가하지 않았으므로 설치되지 않은 환경에서는 대체 폰트로 표시될 수 있습니다.
 - 버튼·입력·배지의 component token, active 상태, 어두운 배경의 focus 표시 방식, 실제 서비스별 Evidence Badge 상태는 디자인 승인 전에 결정해야 합니다.
+- 공식 브랜드 원색 `#00ABE1`과 접근성용 행동·포커스 파생색 `#007FA8`의 적용 범위도 디자인 승인 전에 확정해야 합니다. 흰색 텍스트가 필요한 작은 CTA에는 원색을 직접 사용하지 않는 현재 원칙을 적용했습니다.
 
 ### 2026-09-14 브라우저 검증 기록
 
@@ -50,12 +51,12 @@ python -m http.server 8000
 - 360, 390, 767, 768, 1200, 1440px에서 페이지 가로 넘침, 주요 영역 경계 이탈, 중국어 텍스트·버튼 잘림이 발견되지 않았습니다.
 - 767px에서는 `--header-height: 60px`, `--panel-padding: 16px`, 768px에서는 각각 `72px`, `24px`로 계산되어 토큰 경계가 적용됐습니다.
 - 표시된 버튼, 입력, 선택, 체크박스 라벨, FAQ 질문 행의 최소 상호작용 높이는 44px였습니다.
-- 실제 hover 색상은 `#12232d`, 키보드 focus-visible은 3px `--shadow-focus`로 계산됐습니다. FAQ 두 항목을 동시에 열고 한 항목만 다시 닫는 동작을 확인했습니다.
+- `--brand-primary`는 `#00abe1`, `--action-primary`와 `--focus-ring`은 `#007fa8`로 계산됐습니다. 실제 hover 색상은 `#12232d`, 키보드 focus-visible은 3px `#007fa8` 그림자로 계산됐습니다. FAQ 두 항목을 동시에 열고 한 항목만 다시 닫는 동작을 확인했습니다.
 - 견적 폼은 키보드로 값을 입력하고 제출 중 → 완료를 재현했으며, 실패 재현 뒤에도 서비스·채널·물량·이메일·동의 값이 유지됐습니다.
 - `prefers-reduced-motion: reduce`에서 문서 스크롤은 `auto`, 버튼 transition은 `0.01ms`로 계산됐습니다.
 - 로드된 리소스는 같은 origin의 `design-tokens.css`, 프리뷰 CSS, 프리뷰 JS뿐이었고, 콘솔 오류·파일 로딩 실패·외부 네트워크 요청은 없었습니다.
 
-실사용·비교 견본의 계산 대비는 기본 본문/흰색 14.40:1, 보조 본문/흰색 7.94:1, 본문/tinted 13.03:1, Primary 버튼 4.91:1, Primary hover 16.10:1, inverse 본문 14.40:1입니다. 흰색과 `--color-brand-green-600` 조합은 2.92:1로 AA 기준에 미달하므로, 브랜드 녹색을 텍스트나 텍스트 배경으로 사용할 때의 역할과 대체 조합을 승인 전에 결정해야 합니다.
+실사용·비교 견본의 계산 대비는 기본 본문/흰색 14.40:1, 보조 본문/흰색 7.94:1, 본문/tinted 12.85:1, Primary 버튼 4.56:1, Primary hover 16.10:1, inverse 본문 14.40:1입니다. 공식 브랜드 원색 `#00ABE1`은 잉크색 본문과 5.43:1이지만 흰색과는 2.65:1로 AA 기준에 미달합니다. 따라서 브랜드 원색은 잉크색 텍스트 또는 비텍스트 강조에 사용하고, 흰색 텍스트가 필요한 CTA와 흰 배경의 포커스 링에는 4.56:1인 `#007FA8`을 사용합니다.
 
 스크린샷은 [qa-screenshots](qa-screenshots/)에 저장했습니다.
 
@@ -76,7 +77,7 @@ python -m http.server 8000
 
 ## 디자인 방향
 
-- 색상: 네이비 #182C39, 초록 #19AE49, 세이지 #EFF5F1, 흰색 #FFFFFF.
+- 기존 생성 시안의 역사적 컨셉 팔레트는 네이비 `#182C39`, 초록 `#19AE49`, 세이지 `#EFF5F1`, 흰색 `#FFFFFF`입니다. 현재 디자인 시스템 V1의 공식 브랜드 원색은 `#00ABE1`이며, 인터랙티브 프리뷰는 새 브랜드 블루 토큰을 따릅니다.
 - 폰트 방향: Noto Sans SC 계열 간체 중국어 고딕과 기하학적 라틴 산세리프.
 - 히어로: 실제 Gardena·Katy 창고 사진을 화면 전체의 바탕으로 활용하고 `免费获取报价` CTA를 배치합니다. 현재 시안 이미지는 교체 대상입니다.
 - 콘텐츠 순서: 가치 제안 → 서비스 선택 → 중국 공장부터 미국 소비자까지의 흐름 → 판매 채널 → 시스템 → 견적 상담.

diff --git a/docs/wayfinder/design-system-v1.md b/docs/wayfinder/design-system-v1.md
@@ -33,15 +33,16 @@
 | --- | --- | --- |
 | 본문 잉크 | `--text-primary` | `#182C39` |
 | 보조 본문 | `--text-secondary` | `#40545D` |
-| 주 CTA | `--action-primary` | `#12823A` |
-| 주 CTA 강조 | `--color-brand-green-600` | `#19AE49` |
-| 밝은 배경 | `--surface-tinted` | `#EFF5F1` |
+| 공식 브랜드 원색 | `--brand-primary` | `#00ABE1` |
+| 주 CTA | `--action-primary` | `#007FA8` |
+| 밝은 브랜드 배경 | `--surface-tinted` | `#DFF6FD` |
 | 역상 배경 | `--surface-inverse` | `#182C39` |
+| 성공·검증 상태 | `--status-success` | `#1A7F4B` |
 | 경고 | `--color-signal-amber` | `#BF6F1D` |
 | 오류 | `--color-signal-red` | `#B83A36` |
 | 정보 | `--color-signal-blue` | `#236C91` |
 
-녹색은 행동과 승인 상태에 집중해서 사용한다. 정보·경고·오류는 별도 신호색을 사용해 한 가지 색조에 화면이 잠식되지 않도록 한다.
+공식 브랜드 원색은 `#00ABE1`이다. 흰색과의 대비가 2.65:1이므로 작은 텍스트나 흰색 글자의 CTA 배경으로 직접 사용하지 않는다. 주요 CTA와 키보드 포커스에는 흰색과 4.56:1 대비를 갖는 파생색 `#007FA8`을 사용한다. 공식 원색은 큰 비텍스트 그래픽, 장식 강조, 또는 잉크색 텍스트와 함께 사용한다. 성공·검증 상태는 브랜드 블루와 혼동되지 않도록 별도 녹색 신호 토큰을 사용하고, 정보·경고·오류도 각각의 신호색을 유지한다.
 
 ### 타이포그래피
 
@@ -73,15 +74,15 @@
 - 데스크톱: 좌측 PNPLINE 워드마크, 중앙 또는 우측에 서비스·解决方案·资源·关于我们, 우측 주 CTA
 - 모바일: 워드마크, 메뉴 버튼, 고정 하단 또는 메뉴 내부의 견적 CTA
 - 대표 URL과 내부 링크는 `https://pnpline.cn` 기준으로 생성한다.
-- 활성 메뉴는 녹색 텍스트와 2px 하단선으로 표시한다.
+- 활성 메뉴는 접근성용 브랜드 블루(`--action-primary`) 텍스트와 2px 하단선으로 표시한다.
 
 ### Button
 
 | 변형 | 용도 | 기본 | Hover/Focus | Disabled |
 | --- | --- | --- | --- | --- |
-| Primary | 견적·문의·주요 전환 | 녹색 배경/흰색 글자 | 잉크 배경/흰색 글자 | 연한 잉크/회색 글자 |
-| Secondary | 상세 보기·보조 이동 | 투명/잉크 테두리 | 연한 세이지 배경 | 연한 테두리 |
-| Text | 섹션 내 관련 링크 | 잉크 텍스트/화살표 | 녹색 텍스트 | 회색 텍스트 |
+| Primary | 견적·문의·주요 전환 | 접근성용 브랜드 블루 배경/흰색 글자 | 잉크 배경/흰색 글자 | 연한 잉크/회색 글자 |
+| Secondary | 상세 보기·보조 이동 | 투명/잉크 테두리 | 연한 브랜드 배경 | 연한 테두리 |
+| Text | 섹션 내 관련 링크 | 잉크 텍스트/화살표 | 접근성용 브랜드 블루 텍스트 | 회색 텍스트 |
 
 버튼 텍스트는 중국어 기준으로 `获取报价`, `了解服务`, `查看详情`, `提交咨询`처럼 동작을 직접 표현한다. 아이콘만으로 의미를 전달할 수 있는 경우에는 텍스트를 중복하지 않는다.
 
